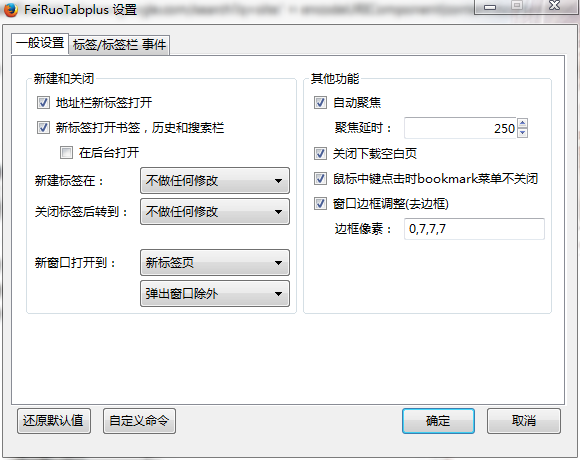
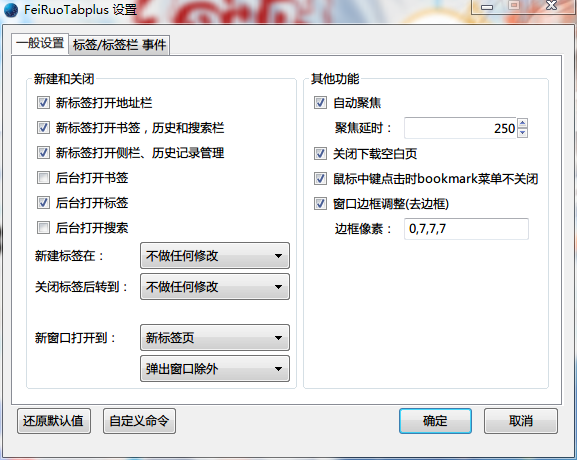
增加侧栏，修复某个选项不生效的问题

diff --git a/FeiRuoTabplus/FeiRuoTabplus.uc.js b/FeiRuoTabplus/FeiRuoTabplus.uc.js
@@ -3,12 +3,6 @@
 // @description		标签管理
 // @modby	        feiruo
 // @charset       	UTF-8
-// @include			chrome://browser/content/browser.xul
-// @include			chrome://browser/content/bookmarks/bookmarksPanel.xul
-// @include			chrome://browser/content/history/history-panel.xul
-// @include			chrome://browser/content/places/places.xul
-// @include        	chrome://mozapps/content/downloads/unknownContentType.xul
-// @include        	chrome://mozapps/content/downloads/downloads.xul
 // @id              [ACCDD25E]
 // @inspect         window.FeiRuoTabplus
 // @startup         window.FeiRuoTabplus.init();
@@ -38,6 +32,7 @@
 		DefaultBookmarksEventHandler: BookmarksEventHandler.onClick.toString(),
 		DefaultcheckForMiddleClick: checkForMiddleClick.toString(),
 		DefaultgBrowser: gBrowser.mTabProgressListener.toString(),
+		DefaultopenNodeWithEvent: PlacesUIUtils.openNodeWithEvent.toString(),
 
 		get prefs() {
 			delete this.prefs;
@@ -59,6 +54,7 @@
 				id: "FeiRuoTabplus_set",
 				label: "FeiRuoTabplus配置",
 				oncommand: "FeiRuoTabplus.openPref();",
[1 lines of base64/hex data omitted]
 				class: "menuitem-iconic",
 			}), ins);
 
@@ -189,6 +185,12 @@
 			if (!type || type === "TabFocus_Time")
 				this.TabFocus_Time = this.getPrefs(1, "TabFocus_Time", 250);
 
+			if (!type || type === "whereToOpen")
+				this.Cutover("whereToOpen", this.getPrefs(0, "whereToOpen", false));
+
+			if (!type || type === "SideBarNewTab")
+				this.Cutover("SideBarNewTab", this.getPrefs(0, "SideBarNewTab", false));
+
 			if (!type || type === "CloseDownloadBankTab")
 				this.Cutover("CloseDownloadBankTab", this.getPrefs(0, "CloseDownloadBankTab", false));
 
@@ -291,6 +293,11 @@
 					window.addEventListener("aftercustomization", FeiRuoTabplus.NoShowBorder, false);
 					window.addEventListener("customizationchange", FeiRuoTabplus.NoShowBorder, false);
 					this.NoShowBorder();
+					break;
+				case "SideBarNewTab":
+					eval("PlacesUIUtils.openNodeWithEvent = " + this.DefaultopenNodeWithEvent);
+					if (!val) return;
+					eval("PlacesUIUtils.openNodeWithEvent = " + this.DefaultopenNodeWithEvent.replace("window.whereToOpenLink", "FeiRuoTabplus.whereToOpenLink"));
 					break;
 				case "whereToOpen":
 					eval('whereToOpenLink=' + this.DefaultwhereToOpenLink);
@@ -588,7 +595,53 @@
 				window.openDialog("data:application/vnd.mozilla.xul+xml;charset=UTF-8," + option, '', 'chrome,titlebar,toolbar,centerscreen,dialog=no');
 			}
 		},
+		whereToOpenLink: function(e, ignoreButton, ignoreAlt) {
+			if (!e)
+				return "current";
 
+			var shift = e.shiftKey;
+			var ctrl = e.ctrlKey;
+			var meta = e.metaKey;
+			var alt = e.altKey && !ignoreAlt;
+			var middle = !ignoreButton && e.button == 1;
+			var middleUsesTabs = getBoolPref("browser.tabs.opentabfor.middleclick", true);
+			if (ctrl || (middle && middleUsesTabs))
+				return shift ? "tabshifted" : "tab";
+
+			if (alt && getBoolPref("browser.altClickSave", false))
+				return "save";
+
+			if (shift || (middle && !middleUsesTabs))
+				return "window";
+
+			var Class = e.target ? e.target.getAttribute('class') : null;
+			try {
+				if (Class == '')
+					Class = e.target.parentNode.getAttribute('class');
+			} catch (e) {}
+			if ((!isBlankPageURL(gBrowser.currentURI.spec) || gBrowser.webProgress.isLoadingDocument) && Class && (Class.indexOf('bookmark-item') >= 0 || Class.indexOf('placesTree') >= 0 || Class == 'subviewbutton') && !FeiRuoTabplus.IsInSideBar(e.target))
+				return 'tab';
+
+			return "current";
+		},
+
+		IsInSideBar: function(target) {
+			if (!target) return false;
+			try {
+				var node = target._placesNode;
+			} catch (e) {
+				node = null;
+			}
+			try {
+				if (!node && (target.parentNode.id == 'placeContent' || target.parentNode.id == 'bookmarks-view'))
+					node = target.parentNode.selectedNode;
+				return node && PlacesUtils.nodeIsBookmark(node) &&
+					PlacesUtils.annotations.itemHasAnnotation(node
+						.itemId, PlacesUIUtils.LOAD_IN_SIDEBAR_ANNO);
+			} catch (e) {
+				return false;
+			}
+		},
 		/*****************************************************************************************/
 		option: function() {
 			xul = '<?xml version="1.0"?><?xml-stylesheet href="chrome://global/skin/" type="text/css"?>\
@@ -605,6 +658,8 @@
 					windowtype="FeiRuoTabplus:Preferences">\
 					<prefpane id="main" flex="1">\
 						<preferences>\
+							<preference id="SideBarNewTab" type="bool" name="userChromeJS.FeiRuoTabplus.SideBarNewTab"/>\
+							<preference id="whereToOpen" type="bool" name="userChromeJS.FeiRuoTabplus.whereToOpen"/>\
 							<preference id="NewTabUrlbar" type="bool" name="userChromeJS.FeiRuoTabplus.NewTabUrlbar"/>\
 							<preference id="NewTabHistory" type="bool" name="userChromeJS.FeiRuoTabplus.NewTabHistory"/>\
 							<preference id="NewTabNear" type="int" name="userChromeJS.FeiRuoTabplus.NewTabNear"/>\
@@ -619,6 +674,8 @@
 							<preference id="loadBookmarksInBackground" name="browser.tabs.loadBookmarksInBackground" type="bool"/>\
 							<preference id="open_newwindow" name="browser.link.open_newwindow" type="int"/>\
 							<preference id="open_newwindow.restriction" name="browser.link.open_newwindow.restriction" type="int"/>\
+							<preference id="searchloadInBackground" name="browser.search.context.loadInBackgroundn" type="bool"/>\
+							<preference id="tabsloadInBackground" name="browser.tabs.loadInBackground" type="bool"/>\
 						</preferences>\
 						<script>\
 							function Change() {\
@@ -635,63 +692,60 @@
 								<hbox>\
 									<groupbox>\
 										<caption label="新建和关闭"/>\
-										<row>\
-											<checkbox id="NewTabUrlbar" label="地址栏新标签打开" preference="NewTabUrlbar"/>\
-										</row>\
-										<row>\
-											<checkbox id="NewTabHistor" label="新标签打开书签，历史和搜索栏" preference="NewTabHistory" oncommand="Change();"/>\
-										</row>\
-										<row class="indent">\
-											<checkbox id="loadBookmarksInBackground" label="在后台打开" preference="loadBookmarksInBackground"/>\
-										</row>\
-										<grid>\
-											<rows>\
-												<row align="center">\
-													<label value="新建标签在："/>\
-													<menulist preference="NewTabNear" id="NewTabNear" style="width:120px">\
-														<menupopup>\
-															<menuitem label="不做任何修改" value="0"/>\
-															<menuitem label="当前标签左边" value="1"/>\
-															<menuitem label="当前标签右边" value="2"/>\
-														</menupopup>\
-													</menulist>\
-												</row>\
-												<row align="center">\
-													<label value="关闭标签后转到："/>\
-													<menulist preference="ToNearTab" id="ToNearTab">\
-														<menupopup>\
-															<menuitem label="不做任何修改" value="0"/>\
-															<menuitem label="当前标签左边" value="1"/>\
-															<menuitem label="当前标签右边" value="2"/>\
-														</menupopup>\
-													</menulist>\
-												</row>\
-												<row align="center">\
-												<label value=""/>\
-												<label value=""/>\
-												</row>\
-												<row align="center">\
-													<label value="新窗口打开到："/>\
-													<menulist preference="open_newwindow" style="width:120px">\
-														<menupopup>\
-															<menuitem label="当前标签页" value="1"/>\
-															<menuitem label="新窗口" value="2"/>\
-															<menuitem label="新标签页" value="3"/>\
-														</menupopup>\
-													</menulist>\
-												</row>\
-												<row align="center">\
+											<checkbox id="NewTabUrlbar" label="新标签打开地址栏" preference="NewTabUrlbar"/>\
+											<checkbox id="NewTabHistor" label="新标签打开书签、历史和搜索栏" preference="NewTabHistory" oncommand="Change();"/>\
+											<checkbox id="SideBarNewTab" label="新标签打开侧栏、历史记录管理" preference="SideBarNewTab"/>\
+											<checkbox id="loadBookmarksInBackground" label="后台打开书签" preference="loadBookmarksInBackground"/>\
+											<checkbox id="tabsloadInBackground" label="后台打开标签" preference="tabsloadInBackground"/>\
+												<checkbox id="searchloadInBackground" label="后台打开搜索" preference="searchloadInBackground"/>\
+											<grid>\
+												<rows>\
+													<row align="center">\
+														<label value="新建标签在："/>\
+														<menulist preference="NewTabNear" id="NewTabNear" style="width:120px">\
+															<menupopup>\
+																<menuitem label="不做任何修改" value="0"/>\
+																<menuitem label="当前标签左边" value="1"/>\
+																<menuitem label="当前标签右边" value="2"/>\
+															</menupopup>\
+														</menulist>\
+													</row>\
+													<row align="center">\
+														<label value="关闭标签后转到："/>\
+														<menulist preference="ColseToNearTab" id="ColseToNearTab">\
+															<menupopup>\
+																<menuitem label="不做任何修改" value="0"/>\
+																<menuitem label="当前标签左边" value="1"/>\
+																<menuitem label="当前标签右边" value="2"/>\
+															</menupopup>\
+														</menulist>\
+													</row>\
+													<row align="center">\
 													<label value=""/>\
-													<menulist preference="open_newwindow.restriction" style="width:150px">\
-														<menupopup>\
-															<menuitem label="没有例外" value="0"/>\
-															<menuitem label="全部在新窗口中打开" value="1"/>\
-															<menuitem label="弹出窗口除外" value="2"/>\
-														</menupopup>\
-													</menulist>\
-												</row>\
-											</rows>\
-										</grid>\
+													<label value=""/>\
+													</row>\
+													<row align="center">\
+														<label value="新窗口打开到："/>\
+														<menulist preference="open_newwindow" style="width:120px">\
+															<menupopup>\
+																<menuitem label="当前标签页" value="1"/>\
+																<menuitem label="新窗口" value="2"/>\
+																<menuitem label="新标签页" value="3"/>\
+															</menupopup>\
+														</menulist>\
+													</row>\
+													<row align="center">\
+														<label value=""/>\
+														<menulist preference="open_newwindow.restriction" style="width:150px">\
+															<menupopup>\
+																<menuitem label="没有例外" value="0"/>\
+																<menuitem label="全部在新窗口中打开" value="1"/>\
+																<menuitem label="弹出窗口除外" value="2"/>\
+															</menupopup>\
+														</menulist>\
+													</row>\
+												</rows>\
+											</grid>\
 									</groupbox>\
 									<groupbox>\
 										<caption label="其他功能" />\
@@ -713,7 +767,7 @@
 											</row>\
 											<row align="center" class="indent">\
 												<label value="边框像素："/>\
-												<textbox id="ShowBorder" preference="ShowBorder" tooltiptext="顺序依次为【上，左，下，右】"/>\
+												<textbox id="ShowBorder" preference="ShowBorder" style="width:125px" tooltiptext="顺序依次为【上，左，下，右】"/>\
 											</row>\
 									</groupbox>\
 								</hbox>\
@@ -1274,6 +1328,9 @@
 				_$("CloseDownloadBankTab").value = false;
 				_$("KeepBookmarksOnMiddleClick").value = false;
 				_$("ShowBorderChange").value = false;
+				_$("searchloadInBackground").value = false;
+				_$("tabsloadInBackground").value = false;
+				_$("SideBarNewTab").value = false;
 				_$("ShowBorder").value = "0,7,7,7";
 				this.changeStatus();
 			}
